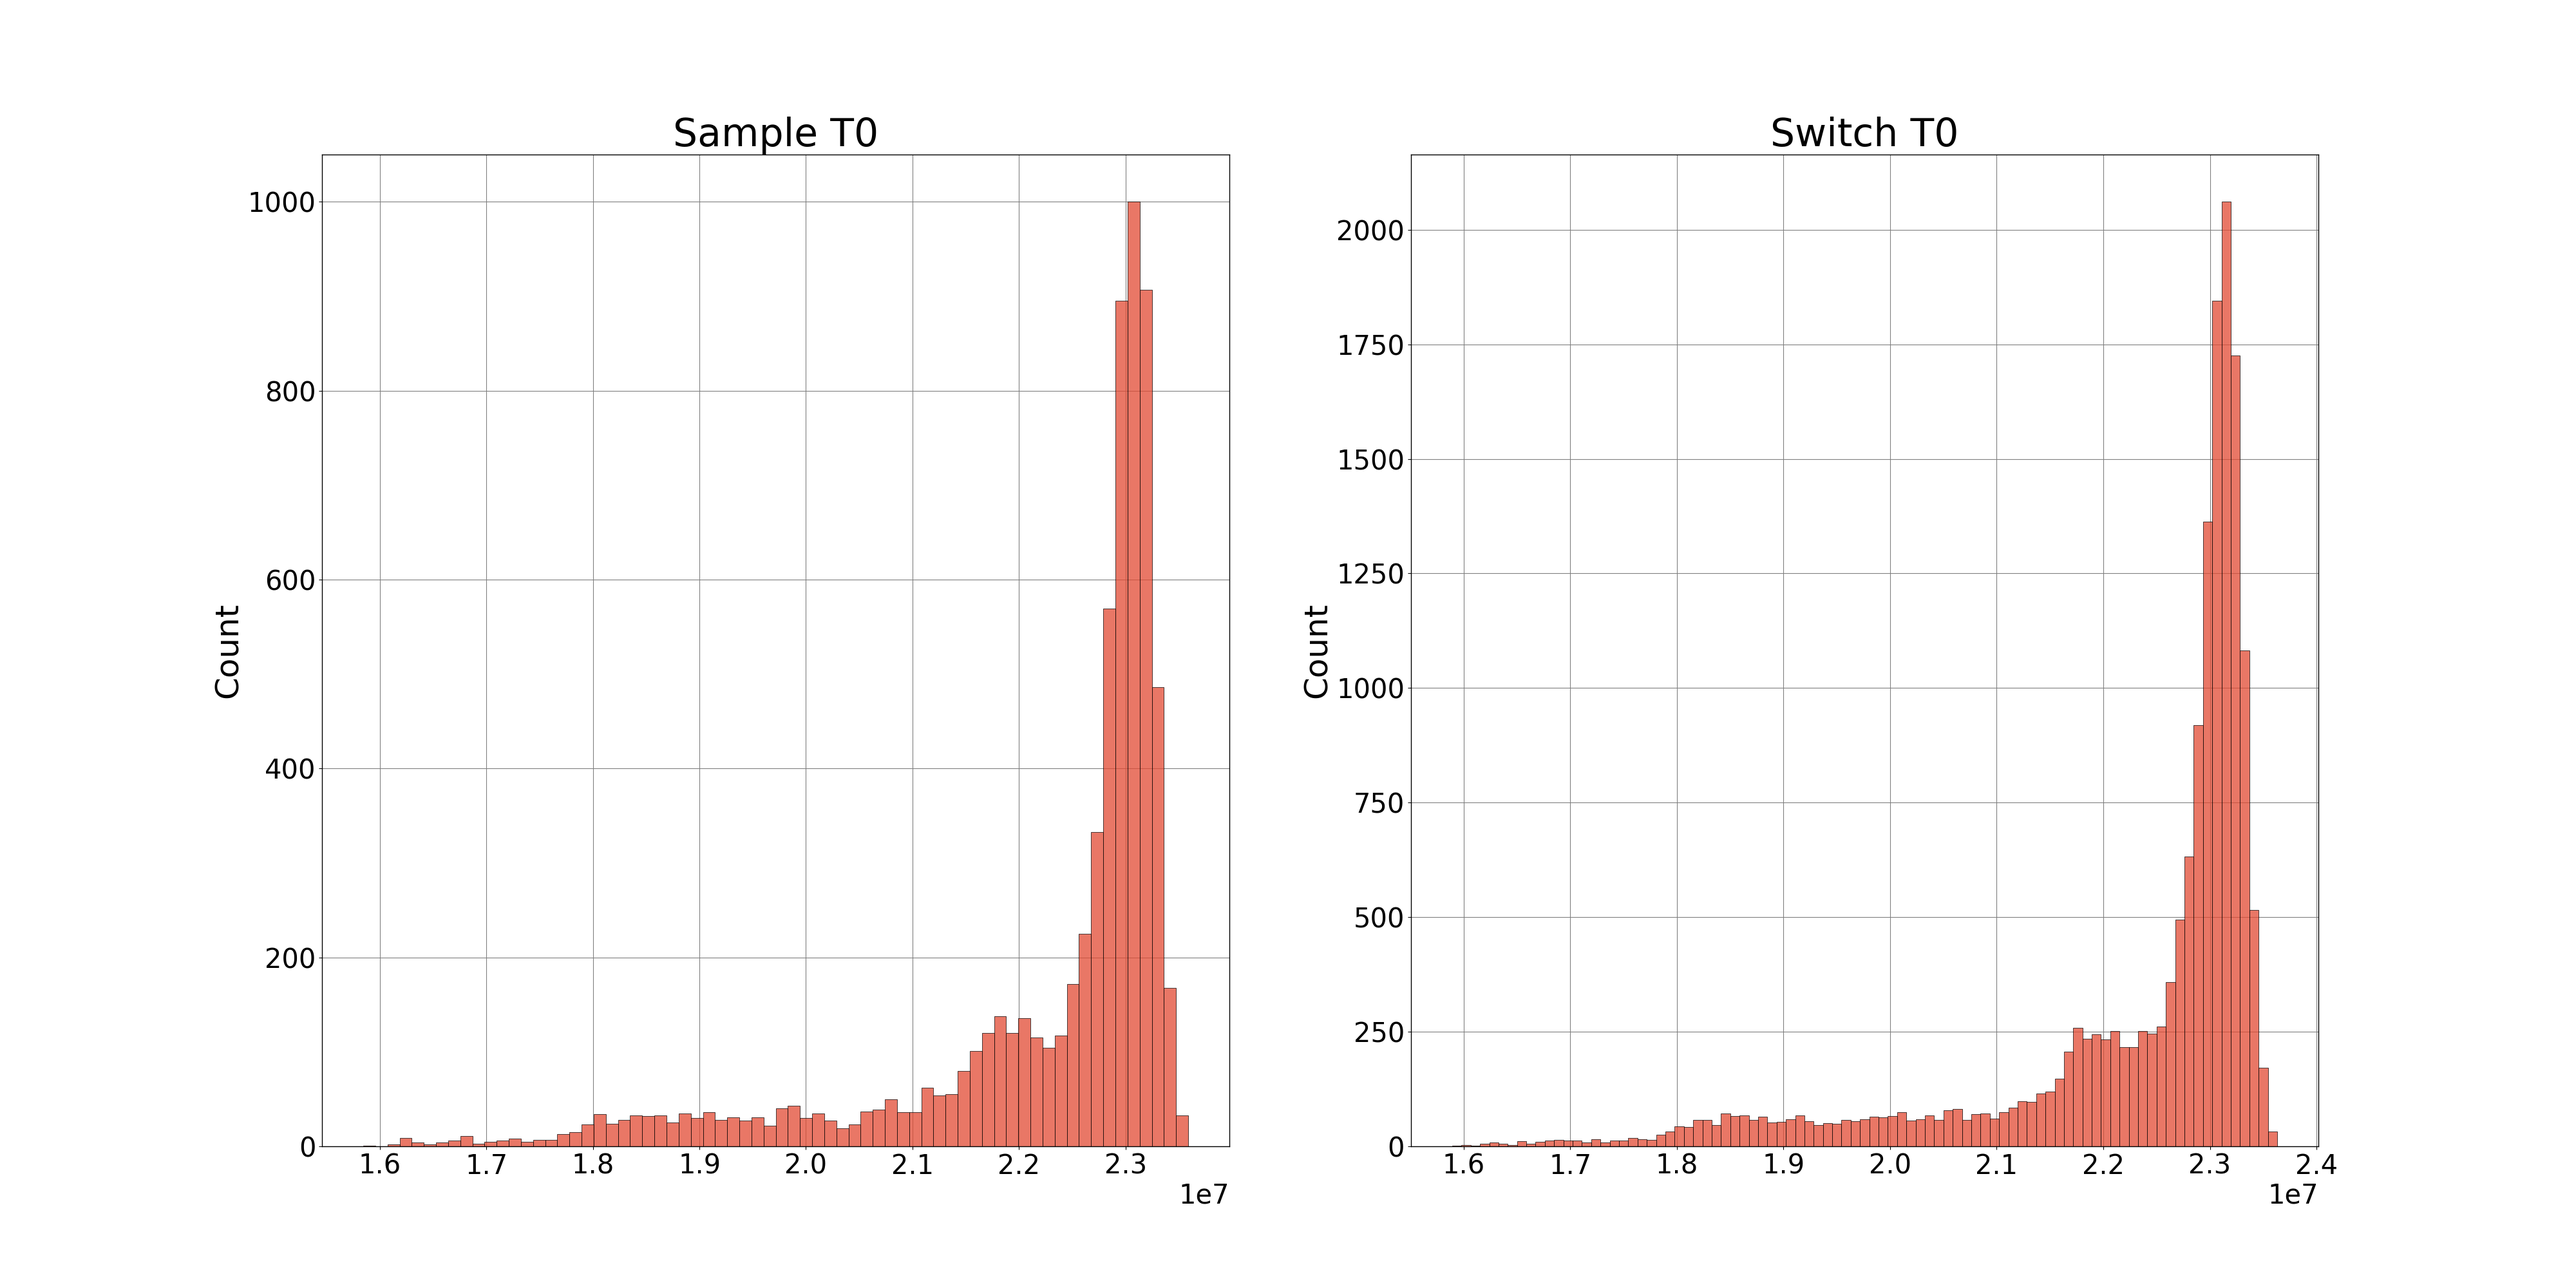
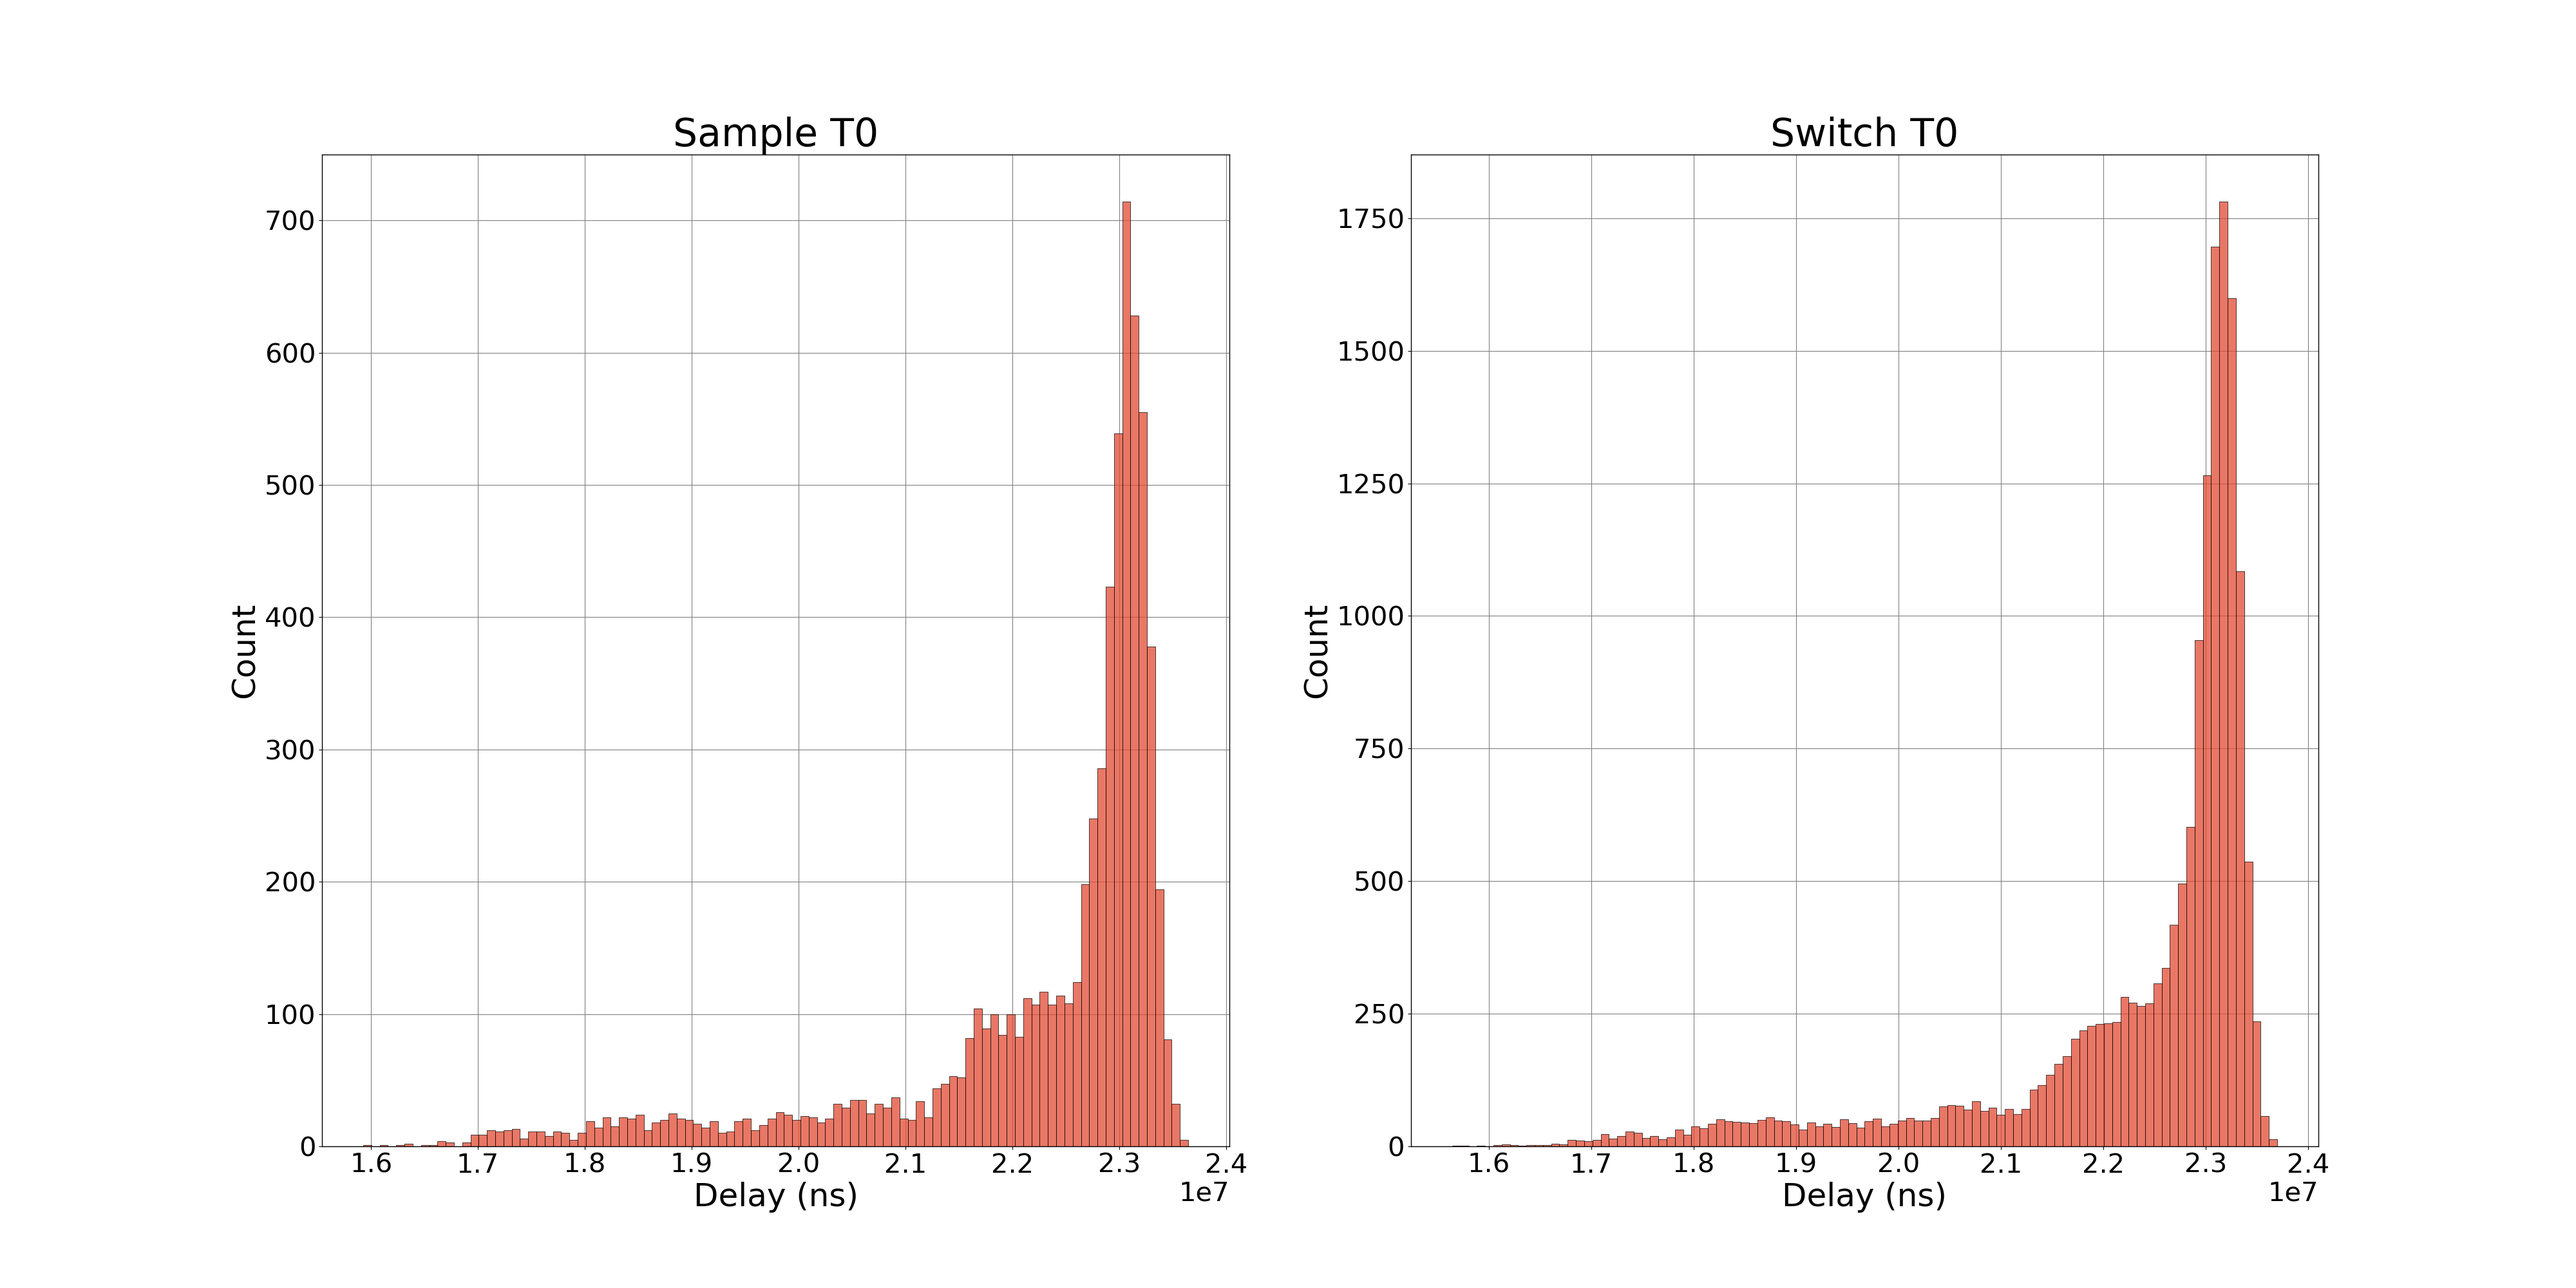
code for generating the plots added!

diff --git a/endToEndCheck.py b/endToEndCheck.py
@@ -243,14 +243,25 @@ def delayProcess_consistency_check(flows, rounds_results):
     if kruskal_res.pvalue > 0.05:
         rounds_results['Kruskal'] += 1
 
-def plot_delay_distribution(rate, switches_dfs, common_switch_sample_df):
+def plot_overall_delay_distribution(rate, switches_dfs, common_switch_sample_df):
     # plot the delay distribution of SWitch T0 and Sample T0
     fig, ax = plt.subplots(1, 2)
-    sns.histplot(common_switch_sample_df['SentTime'] - common_switch_sample_df['ReceiveTime'], ax=ax[0])
-    sns.histplot(switches_dfs['T0']['SentTime'] - switches_dfs['T0']['ReceiveTime'], ax=ax[1])
+    sns.histplot(common_switch_sample_df['SentTime'] - common_switch_sample_df['ReceiveTime'], ax=ax[0], bins=100)
+    sns.histplot(switches_dfs['T0']['SentTime'] - switches_dfs['T0']['ReceiveTime'], ax=ax[1], bins=100)
     ax[0].set_title('Sample T0')
     ax[1].set_title('Switch T0')
+    ax[0].set_xlabel('Delay (ns)')
+    ax[1].set_xlabel('Delay (ns)')
     plt.savefig('results/{}/{}_T0_overall_delayDist.png'.format(rate, rate))
+
+def plot_seperate_delay_distribution(rate, flows):
+    fig, ax = plt.subplots(1, 1)
+    for i in range(len(flows)):
+        sns.histplot(np.array(flows[i]['Delay']), ax=ax, label='Flow {}'.format(i), bins=100)
+    plt.legend()
+    ax.set_title('Delay Distribution of Flows')
+    ax.set_xlabel('Delay (ns)')
+    plt.savefig('results/{}/{}_T0_seperate_delayDist.png'.format(rate, rate))
 
 def compatibility_check(confidenceValue, rounds_results, samples_statistics, interLinks_statistics, endToEnd_statistics, flows_name):
     # End to End and Persegment Compatibility Check
@@ -339,7 +350,8 @@ def analyze_single_experiment(rate, steadyStart, steadyEnd, confidenceValue, rou
     delayProcess_consistency_check(flows, rounds_results)
     
     if experiment == 0:
-        plot_delay_distribution(rate, switches_dfs, common_switch_sample_df)
+        plot_overall_delay_distribution(rate, switches_dfs, common_switch_sample_df)
+        plot_seperate_delay_distribution(rate, flows)
 
     compatibility_check(confidenceValue, rounds_results, samples_statistics, interLinks_statistics, endToEnd_statistics, endToEnd_dfs.keys())
 
